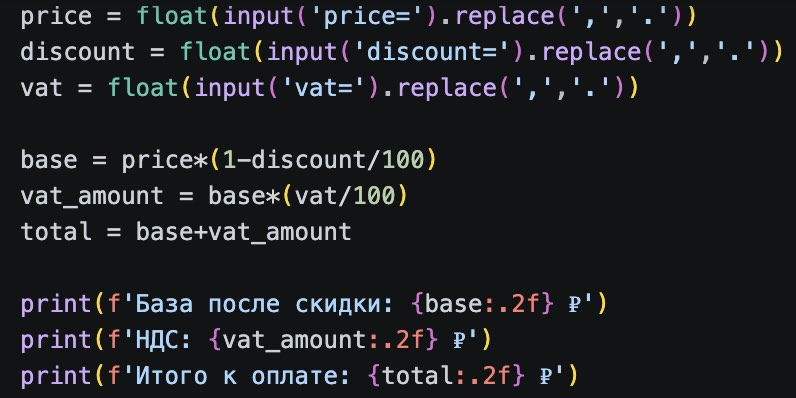
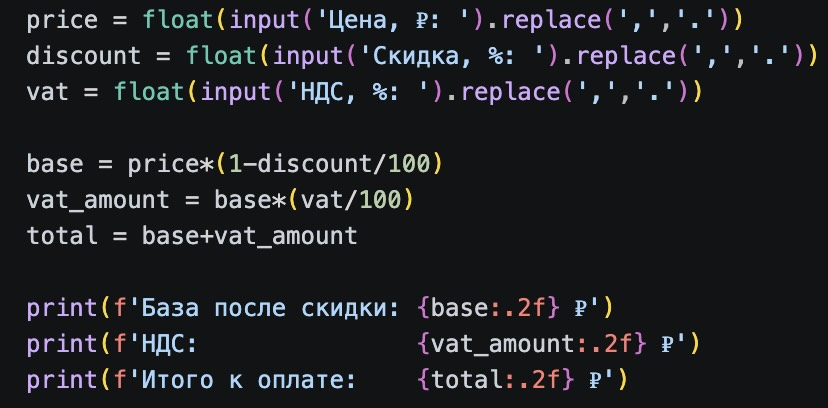
1

diff --git a/src/lab01/03_discount_vat.py b/src/lab01/03_discount_vat.py
@@ -1,14 +1,14 @@
-price = float(input('price=').replace(',','.'))
-discount = float(input('discount=').replace(',','.'))
-vat = float(input('vat=').replace(',','.'))
+price = float(input('Цена, ₽: ').replace(',','.'))
+discount = float(input('Скидка, %: ').replace(',','.'))
+vat = float(input('НДС, %: ').replace(',','.'))
 
 base = price*(1-discount/100)
 vat_amount = base*(vat/100)
 total = base+vat_amount
 
 print(f'База после скидки: {base:.2f} ₽')
-print(f'НДС: {vat_amount:.2f} ₽')
-print(f'Итого к оплате: {total:.2f} ₽')
+print(f'НДС:               {vat_amount:.2f} ₽')
+print(f'Итого к оплате:    {total:.2f} ₽')
 
 
 

diff --git a/src/lab01/01_greeting.py b/src/lab01/01_greeting.py
@@ -1,6 +1,6 @@
 name = input('Имя: ')
 age = int(input('Возраст: '))
-print(f'Привет, {name}!', f'Через год тебе будет {age+1}.')
+print(f'Привет, {name}!, Через год тебе будет {age+1}.')
 
 
 

diff --git a/README.md b/README.md
@@ -1,0 +1,36 @@
+# Лабораторная работа №1
+
+## Задание 1
+
+![](./images/lab01/img01.jpg)
+
+## Задание 2
+
+![](./images/lab01/img02.jpg)
+
+## Задание 3
+
+![](./images/lab01/img03.jpg)
+
+## Задание 4
+
+![](./images/lab01/img04.jpg)
+
+## Задание 5
+
+![](./images/lab01/img05.png)
+
+## Задание 6
+
+![](./images/lab01/img06.png)
+
+
+
+
+
+
+
+
+
+
+
